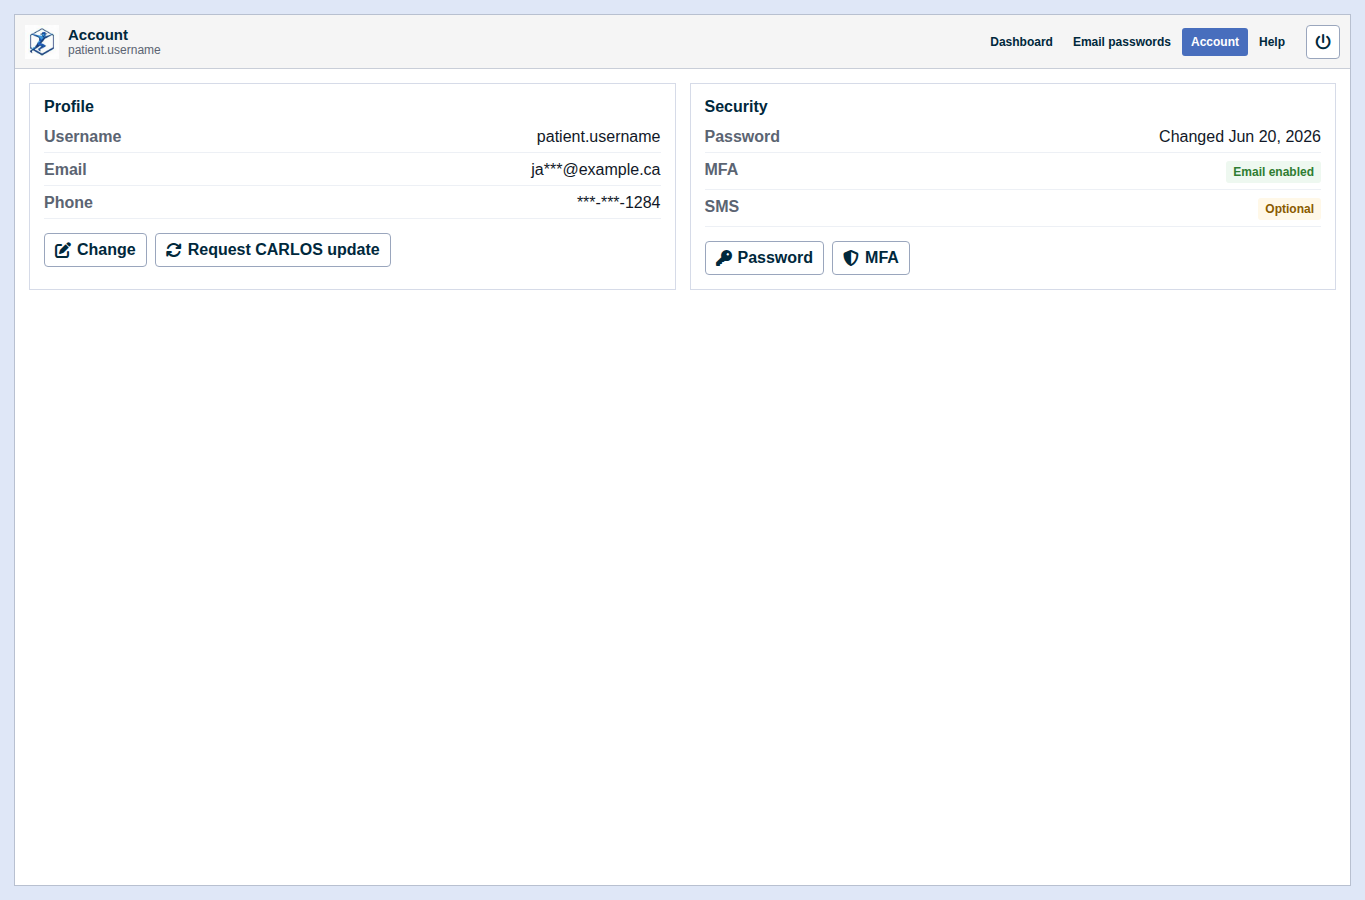
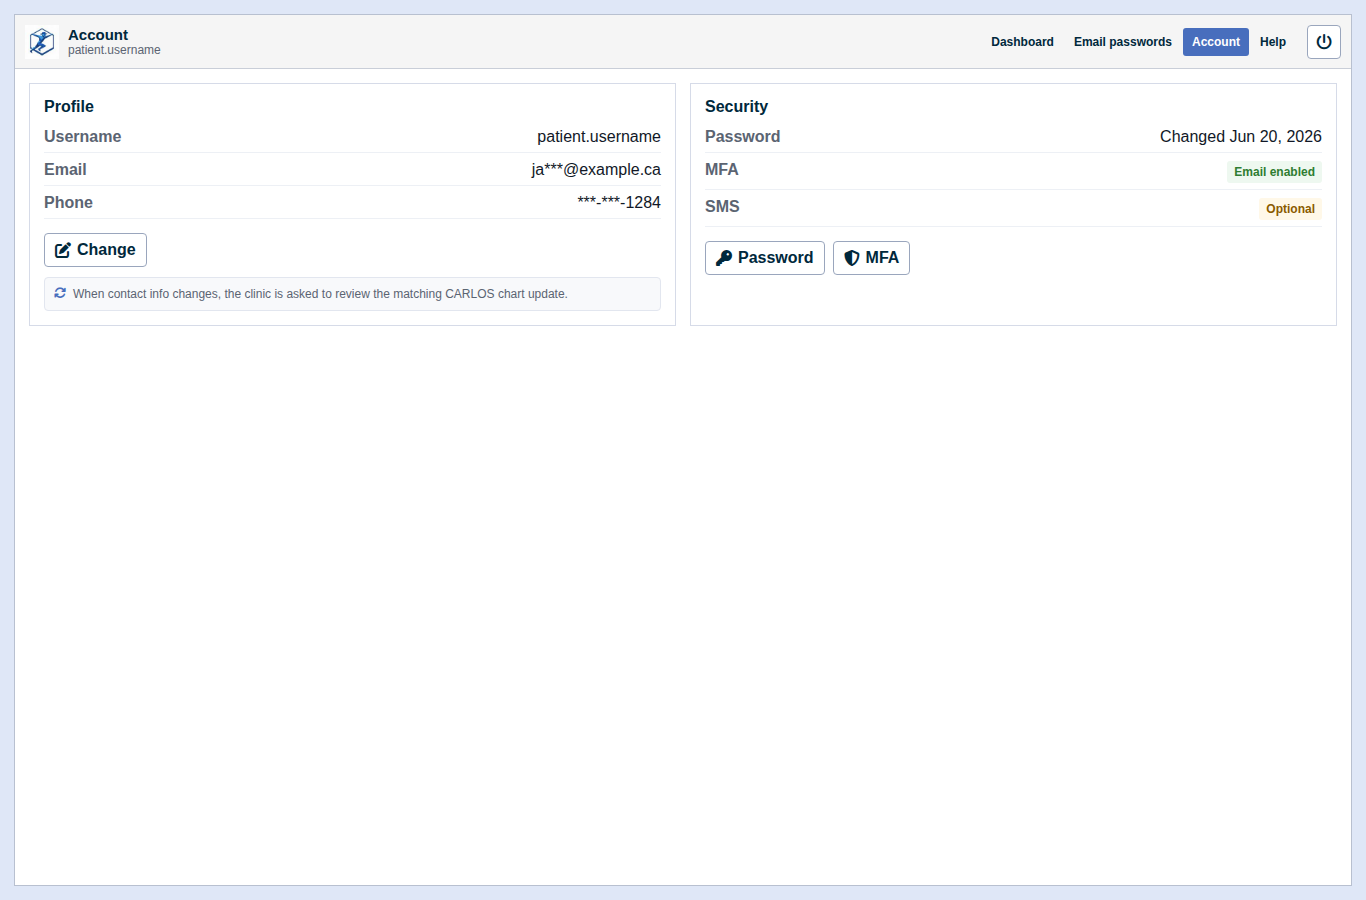
docs: clarify automatic CARLOS chart update review

diff --git a/patient-portal-mocks/index.html b/patient-portal-mocks/index.html
@@ -316,8 +316,8 @@
             </dl>
             <div class="button-row">
               <button class="secondary-action"><i class="fas fa-edit"></i><span>Change</span></button>
-              <button class="secondary-action"><i class="fas fa-sync"></i><span>Request CARLOS update</span></button>
             </div>
+            <p class="sync-note"><i class="fas fa-sync"></i><span>When contact info changes, the clinic is asked to review the matching CARLOS chart update.</span></p>
           </section>
 
           <section class="settings-panel">

diff --git a/patient-portal-mocks/styles.css b/patient-portal-mocks/styles.css
@@ -548,6 +548,25 @@ h2 {
   text-align: right;
 }
 
+.sync-note {
+  display: flex;
+  gap: 7px;
+  align-items: flex-start;
+  margin: 10px 0 0;
+  padding: 8px 9px;
+  color: var(--muted);
+  background: #f8f9fb;
+  border: 1px solid #e2e6ef;
+  border-radius: 4px;
+  font-size: 12px;
+  line-height: 1.35;
+}
+
+.sync-note i {
+  margin-top: 1px;
+  color: var(--carlos-blue);
+}
+
 .pill {
   display: inline-flex;
   align-items: center;
